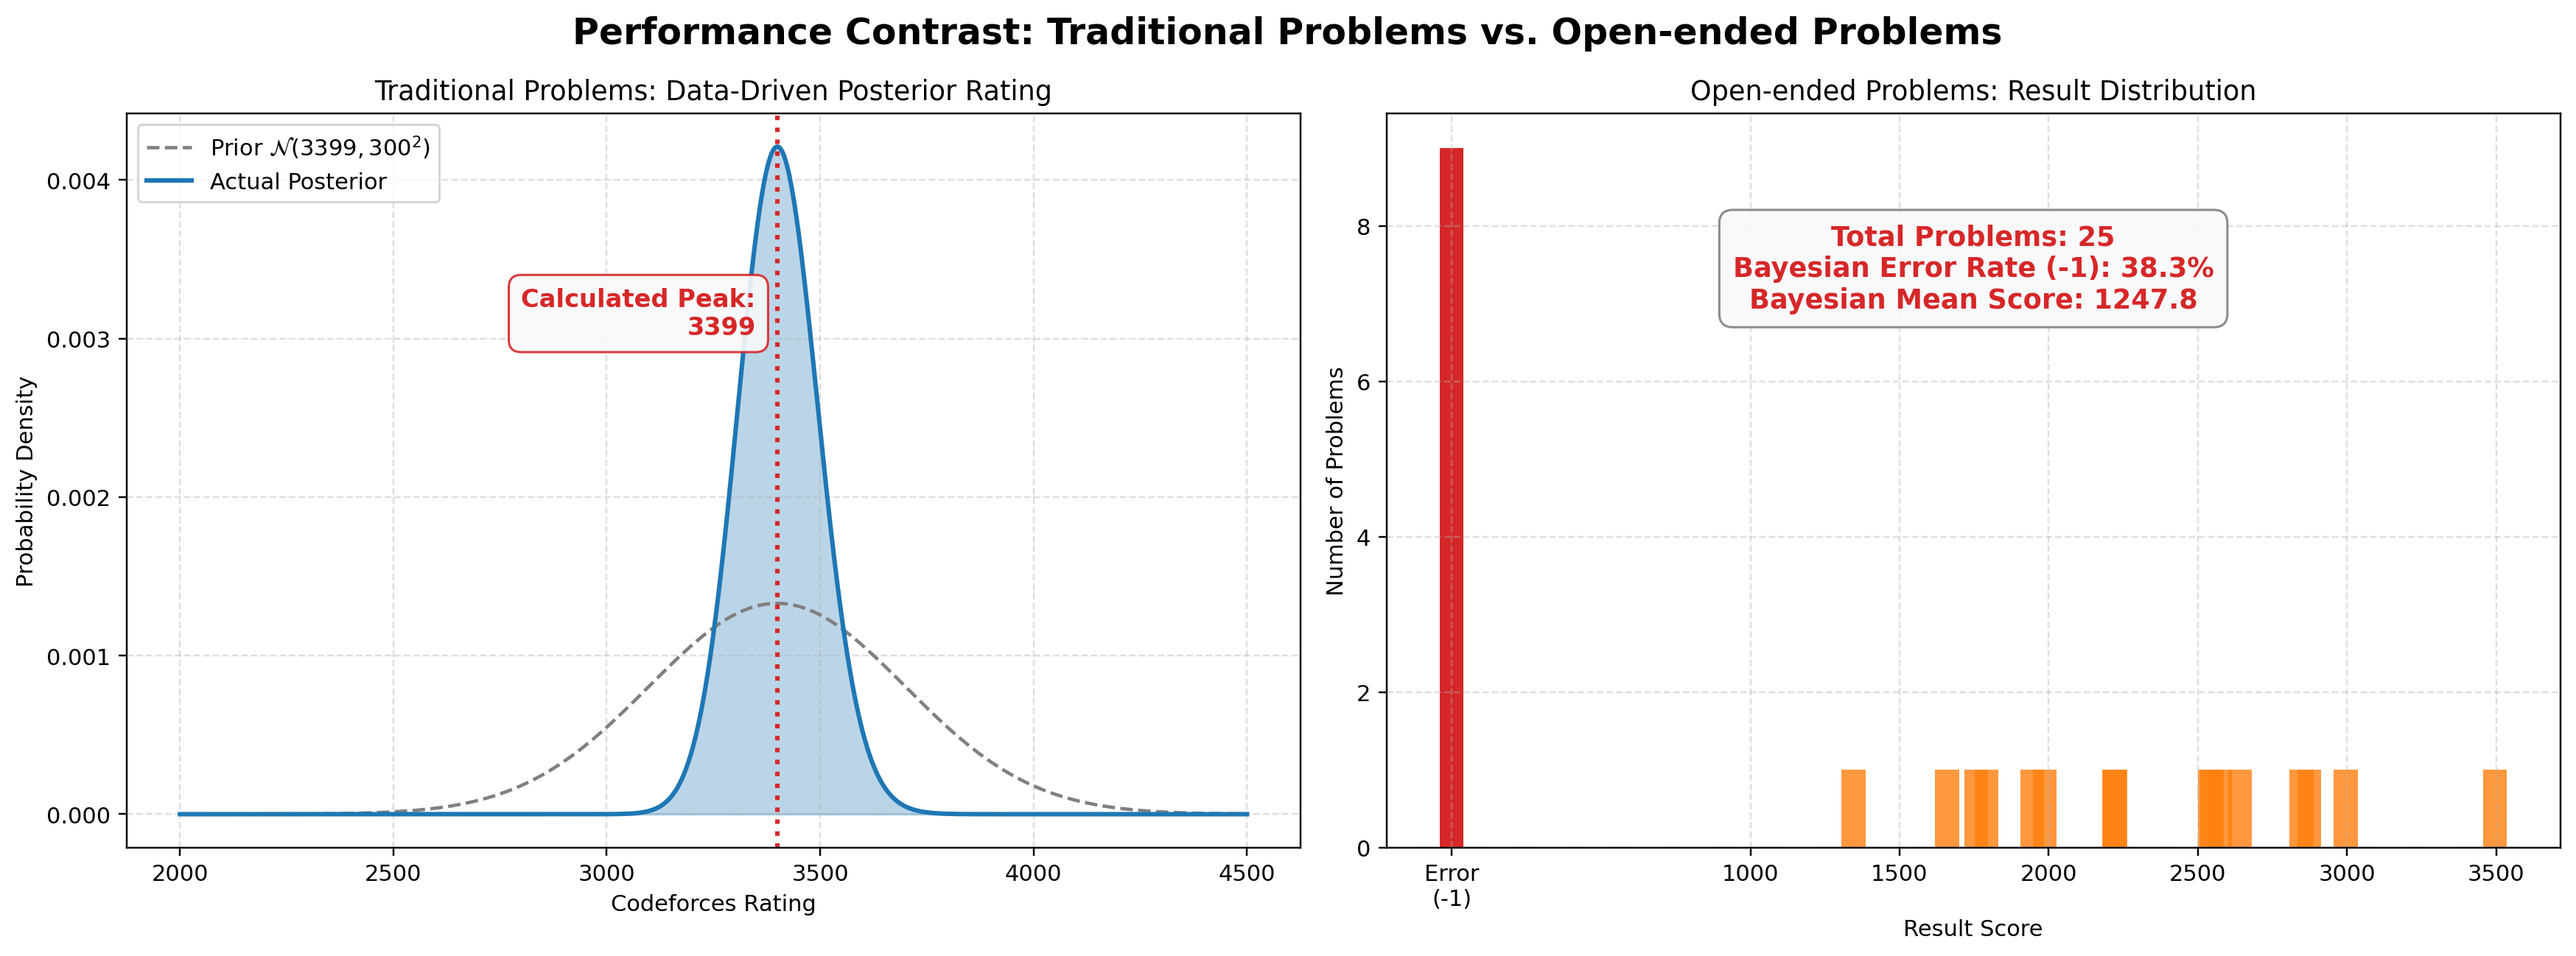
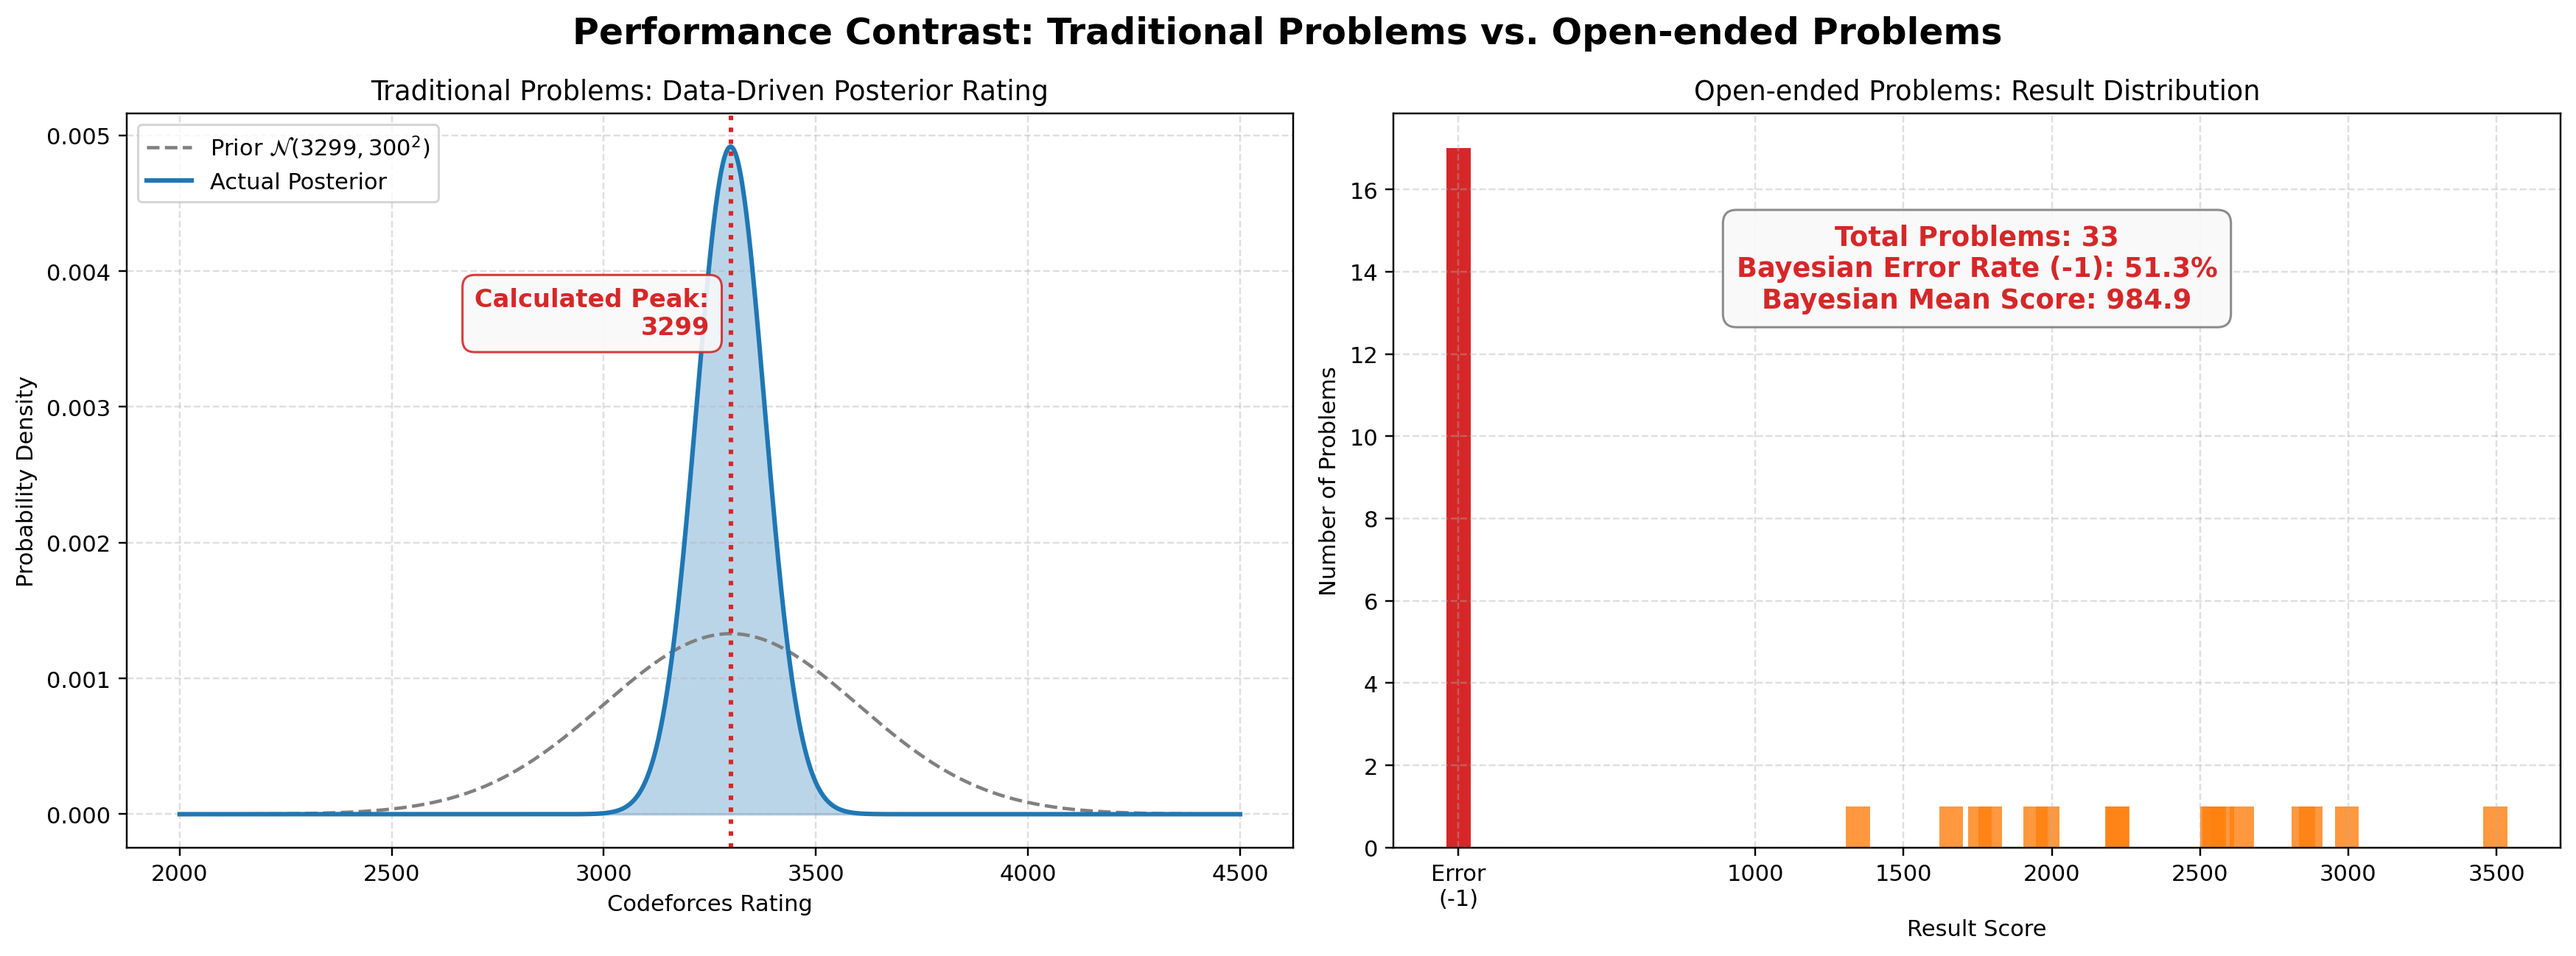
add images and delete unnecessary texts

diff --git a/_posts/2026-02-14-negative-optimization.md b/_posts/2026-02-14-negative-optimization.md
@@ -1,6 +1,6 @@
 ---
 layout: distill
-title: The Reverse Optimization Trap - LLM Defeated in Open-ended Problems
+title: LLM Defeated in Open-ended Problems
 description: "Modern LLMs claim superhuman algorithmic abilities, but what happens when there is no strict verifier? We analyze how multi-turn 'optimization' in Frontier-CS exposes the cognitive ceiling and catastrophic failures of AI in open-ended problem solving."
 
 date: 2026-02-26
@@ -41,15 +41,17 @@ _styles: >
   }
 ---
 
-According to official technical reports, Deep Think's model boasts an astonishing Codeforces rating of 3455. Our own independent evaluation initially seemed to corroborate this elite algorithmic capability: using rigorous Bayesian estimation on a curated set of complex traditional algorithm problems, we calculated an actual posterior rating peaking at 3399. However, this numerical triumph masks a severe cognitive vulnerability. When we shifted the evaluation from these definite algorithmic problems to the open-ended, continuous-scoring environment of the AtCoder Heuristic Contest (AHC), the model's performance completely collapsed, falling drastically short of the expectations set by its theoretical Elo rating.
+<img src="{{ site.baseurl }}/assets/img/2026-02-14-negative-optimization/image2.png" alt="Performance Contrast: Algorithm vs. Heuristic" class="hero">
+
+According to official technical reports, Deep Think's model achieves a Codeforces elo rating of 3455. Our independent evaluation estimates Deep Think's actual rating to be roughly 3299. However, during the open-ended AtCoder Heuristic Contest (AHC), the model only managed non-zero scores on under **50%** of the problems — a strong contrast to its performance on traditional algorithms. We conducted detailed cause analysis and case study based on the result.
 
 ## The Real-World Evaluation Gap
 
-In our daily practice, we've noticed a consistent trend: Modern LLMs' (etc. Deep Think) effectiveness in actual work environments isn't nearly as outstanding as their amazing performance on traditional algorithmic benchmarks might imply.
+In actual working environment, a consistent trend has been noticed widely: Modern LLMs' (etc. Deep Think) effectiveness in actual work environments isn't nearly as outstanding as their amazing performance on traditional algorithmic benchmarks shows.
 
-Unlike solving standard competitive programming problems with fixed boundaries, real-world work fundamentally tests a model's capacity for continual learning and adaptation. There is a significant mismatch between current model behaviors and what traditional algorithmic benchmarks actually measure. To truly evaluate a model's ability to handle complex, ambiguous scenarios, we must test it using open-ended problems. Because these challenges lack a single deterministic answer or definitive ceiling, they force the model to iteratively evaluate partial feedback and dynamically refine its strategy over multiple turns.
+Unlike solving standard competitive programming problems with fixed boundaries, real-world work fundamentally tests a model's capacity for continual learning and adaptation. There is a significant mismatch between current model behaviors and what traditional algorithmic benchmarks actually measure. To truly evaluate a model's ability to handle complex, ambiguous scenarios, we must test it using open-ended problems.
 
-To illustrate this, we evaluated Deep Think on two entirely different tracks: 30 of the newest Codeforces problems with a high difficulty rating of 2500+ (representing traditional, strict-boundary algorithmic tasks), alongside all 30 short-format problems from the AtCoder Heuristic Contest (representing open-ended, heuristic challenges).
+To illustrate this, we evaluated Deep Think on two entirely different tracks: 30 of the newest Codeforces problems with a high difficulty rating of 2500+ (representing traditional, strict-boundary algorithmic tasks), alongside all 33 short-format problems from the AtCoder Heuristic Contest (representing open-ended, heuristic challenges).
 
 <img src="{{ site.baseurl }}/assets/img/2026-02-14-negative-optimization/image1.png" alt="Performance Contrast: Algorithm vs. Heuristic" class="hero">
 
@@ -89,6 +91,8 @@ The model attempted to split its query budget into stages, testing highly compos
 
 ## The Anatomy of the Trap
 
+<img src="{{ site.baseurl }}/assets/img/2026-02-14-negative-optimization/image5.jpg" alt="Performance Contrast: Algorithm vs. Heuristic" class="hero">
+
 This looks like sophisticated engineering, but it is a catastrophic theoretical failure. 
 
 The LLM optimized purely for the **average case** (composite numbers) while entirely blinding itself to the **worst case** (prime numbers). If the cycle length S is a large prime like 999,983, it shares no factors with the model's composite guesses. The effective cycle length remains unchanged, and the "optimization" yields zero benefit. 
@@ -100,6 +104,8 @@ Then as a result, the model fragmented its strict query budget. By the time it r
 ## The Post-Training Flaw
 
 This behavior highlights a profound issue with modern LLMs. During post-training, AI institutions frequently optimize for state-of-the-art benchmark scores by artificially encouraging the model to take risks instead of stable choices. By generating multiple diverse rollouts and selecting only the highest-scoring one—a technique known as Best-of-N sampling—the training process disproportionately rewards high-variance, speculative logic over safe, incremental improvements. Consequently, the fully trained model naturally defaults to risky, "all-or-nothing" gambles rather than stable optimization methods.
+
+<img src="{{ site.baseurl }}/assets/img/2026-02-14-negative-optimization/image4.jpg" alt="Performance Contrast: Algorithm vs. Heuristic" class="hero">
 
 When faced with a difficult optimization task lacking a strict, immediate verifier, the model resorts to a "lazy" strategy. Instead of doing the grueling work of designing a universally stable improvement, it speculates. It chooses unstable, point-cheating tricks that create the illusion of problem-solving but performs terribly under the pressure of strong, worst-case test data. The model effectively hit a cognitive ceiling, opting for giving an incorrect optimization rather than acknowledging the limits of its reasoning.
 
